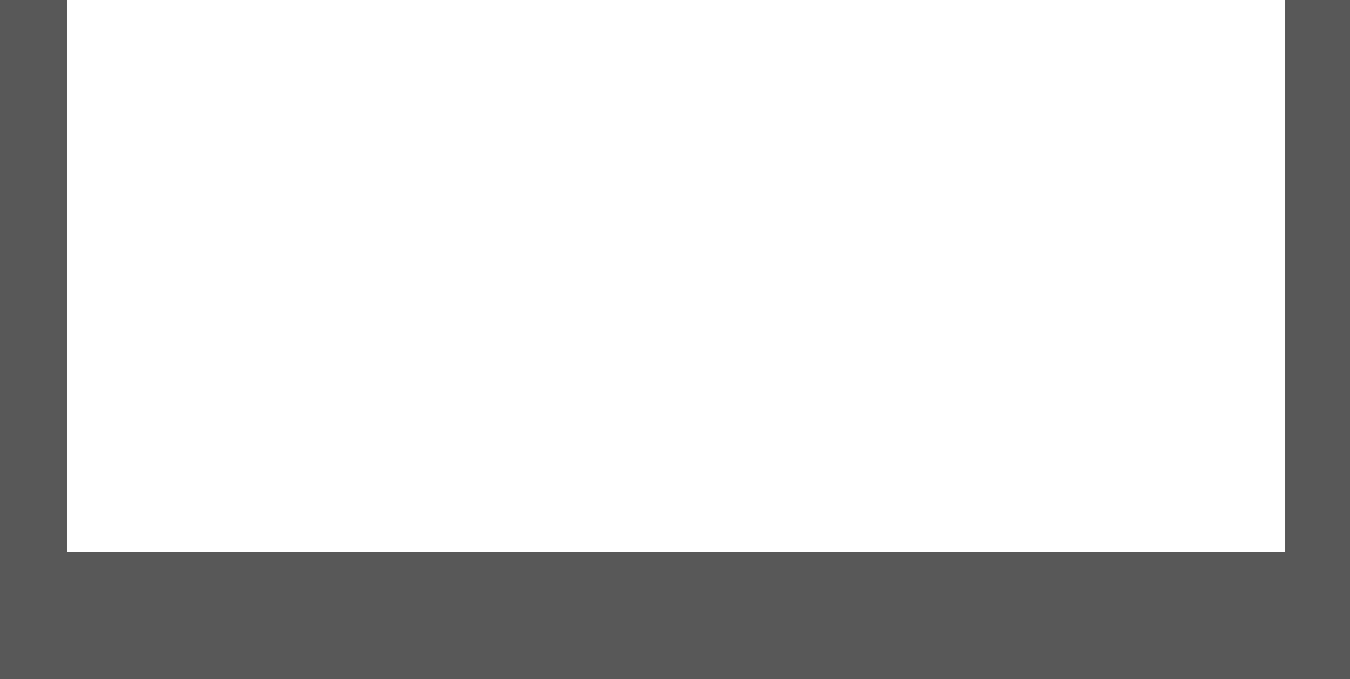
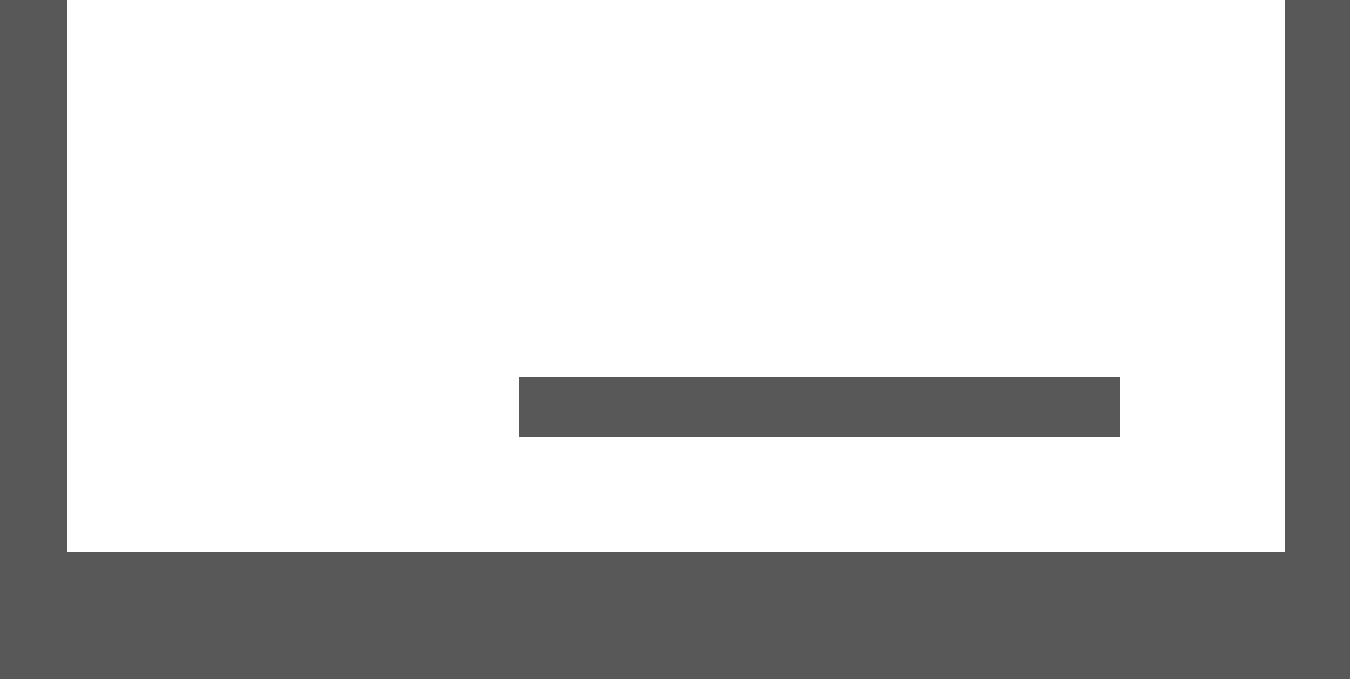
Added targets and stuf

Changed region(s): [[0.3733, 0.5567, 0.84, 0.6495]]

diff --git a/main.py b/main.py
@@ -1,7 +1,8 @@
 import pygame
 import math
 from utils import resize_img
-WIN = pygame.display.set_mode((500, 500))
+WIN = pygame.display.set_mode((720, 400), -200)
+pygame.display.set_caption("2D Shooter!")
 p_width = 20
 p_height = 40
 player_img = resize_img(pygame.image.load("Player.png"), p_width, p_height)
@@ -10,7 +11,13 @@ level_img = resize_img(pygame.image.load("Level1.png"), 2000, 600)
 level_mask = pygame.mask.from_surface(level_img)
 bullet_img = resize_img(pygame.image.load("Bullets.png"), 4, 4)
 bullet_mask = pygame.mask.from_surface(bullet_img)
-current_gun = resize_img(pygame.image.load("Weapon 1.png"), 45, 45)
+target_img = resize_img(pygame.image.load("Target.png"), 30, 40)
+target_mask = pygame.mask.from_surface(target_img)
+current_gun = resize_img(pygame.image.load("Weapon_1.png"), 45, 45)
+target_place = [(1885, 200), (1885, 250), (1885, 300), (1885, 350)]
+bullet_masks = []
+alive_targets = []
+hit_targets = []
 run = True
 Plyr_X = 200
 Plyr_Y = 200
@@ -21,6 +28,8 @@ time_count = 0
 scroll_x = 0
 scroll_y = 0
 bullet_wait = 7
+level = 0
+repeat = 0
 
 
 class Player:
@@ -31,6 +40,7 @@ class Player:
         self.y = Plyr_Y
         self.VelX = 0
         self.VelY = 0
+        self.jump_height = 15
 
     def move_left(self):
         self.VelX -= 1
@@ -39,14 +49,14 @@ class Player:
         self.VelX += 1
 
     def jump(self):
-        self.VelY = -10
+        self.VelY -= self.jump_height
 
     def move_x(self):
         self.VelX = (self.VelX * .9)
         self.x += self.VelX
 
     def move_y(self):
-        self.VelY += .1
+        self.VelY += .6
         self.y += self.VelY
 
     def collide_x(self):
@@ -79,9 +89,10 @@ class Bullets:
     def __init__(self):
         global Plyr_X, Plyr_Y
         global mx, my
+        global bullet_masks
         self.X = Plyr_X
         self.Y = Plyr_Y
-        self.dir = math.atan2(Plyr_X - mx + scroll_x, Plyr_Y - my + scroll_y)
+        self.dir = math.atan2(Plyr_X - mx + scroll_x + 10, Plyr_Y - my + scroll_y + 15)
         self.vx = math.sin(self.dir) * -1
         self.vy = math.cos(self.dir) * -1
         self.img = bullet_img
@@ -89,15 +100,20 @@ class Bullets:
         self.delete = 0
         self.rotated = 0
         self.place = 0
+        self.item = (self.mask, int(self.X), int(self.Y))
+        bullet_masks.append((self.mask, int(self.X), int(self.Y)))
 
     def move(self):
         global bullet_mask
         global level_mask
-        self.X += self.vx * 10
-        self.Y += self.vy * 10
+        global bullet_masks
+        self.X += self.vx * 7
+        self.Y += self.vy * 7
         self.delete += 1
-        bullet_mask = pygame.mask.from_surface(self.img)
-        poi = level_mask.overlap(bullet_mask, (self.X, self.Y))
+        poi = level_mask.overlap(self.mask, (self.X + 5, self.Y + 15))
+        part = bullet_masks.index(self.item)
+        bullet_masks[part] = (self.mask, int(self.X), int(self.Y))
+        self.item = (self.mask, int(self.X), int(self.Y))
         if poi:
             self.delete = 100
         return self.delete
@@ -122,22 +138,63 @@ class Gun:
         else:
             self.weapon = pygame.transform.flip(current_gun, True, False)
 
-        self.dir = math.atan2(Plyr_X - mx + scroll_x, Plyr_Y - my + scroll_y)
+        self.dir = math.atan2(Plyr_X - mx + scroll_x + 10, Plyr_Y - my + scroll_y + 15)
         self.rotated = pygame.transform.rotate(self.weapon, self.dir * (180 / 3.14))
         self.place = Plyr_X - int(self.rotated.get_width() / 2) + 10, Plyr_Y - int(self.rotated.get_height() / 2) + 15
         WIN.blit(self.rotated, (self.place[0] + scroll_x, self.place[1] + scroll_y))
 
 
+class Targets:
+    def __init__(self):
+        self.x = 0
+        self.y = 0
+        self.img = target_img
+        self.mask = target_mask
+
+    def draw_target(self, place):
+        WIN.blit(self.img, (place[0] + scroll_x, place[1] + scroll_y))
+        self.x = place[0]
+        self.y = place[1]
+
+    def collision(self):
+        for p in bullet_masks:
+            poi = p[0].overlap(self.mask, (self.x - p[1] - 10, self.y - p[2] - 15))
+            if poi:
+                return 1
+
+
+def generate_targets():
+    global target_place
+    global repeat
+    repeat = 0
+    for j in target_place:
+        alive_targets.append(Targets())
+        alive_targets[repeat].draw_target(j)
+        repeat += 1
+
+
 Player = Player()
 Gun = Gun()
+
+generate_targets()
 
 while run:
     keys = pygame.key.get_pressed()
     pygame.time.delay(10)
-    WIN.fill((20, 10, 20))
+    WIN.fill((0, 0, 20))
     WIN.blit(level_img, (scroll_x, scroll_y))
     mx, my = pygame.mouse.get_pos()
     click = pygame.mouse.get_pressed(3)
+
+    # This is to draw the targets and to delete them when their hit
+    repeat = 0
+    for i in alive_targets:
+        i.draw_target(target_place[repeat])
+        repeat += 1
+    for i in alive_targets:
+        if i.collision():
+            target_place.pop(alive_targets.index(i))
+            alive_targets.remove(i)
 
     Player.draw_player(WIN)
 
@@ -166,11 +223,14 @@ while run:
         bullet_list.append(())
         bullet_list[len(bullet_list) - 1] = Bullets()
 
+    repeat = 0
     for i in bullet_list:
         bullet = i
         bullet.draw()
         if bullet.move() >= 100:
+            bullet_masks.remove(bullet_masks[repeat])
             bullet_list.remove(i)
+        repeat += 1
 
     Gun.draw_gun()
 
